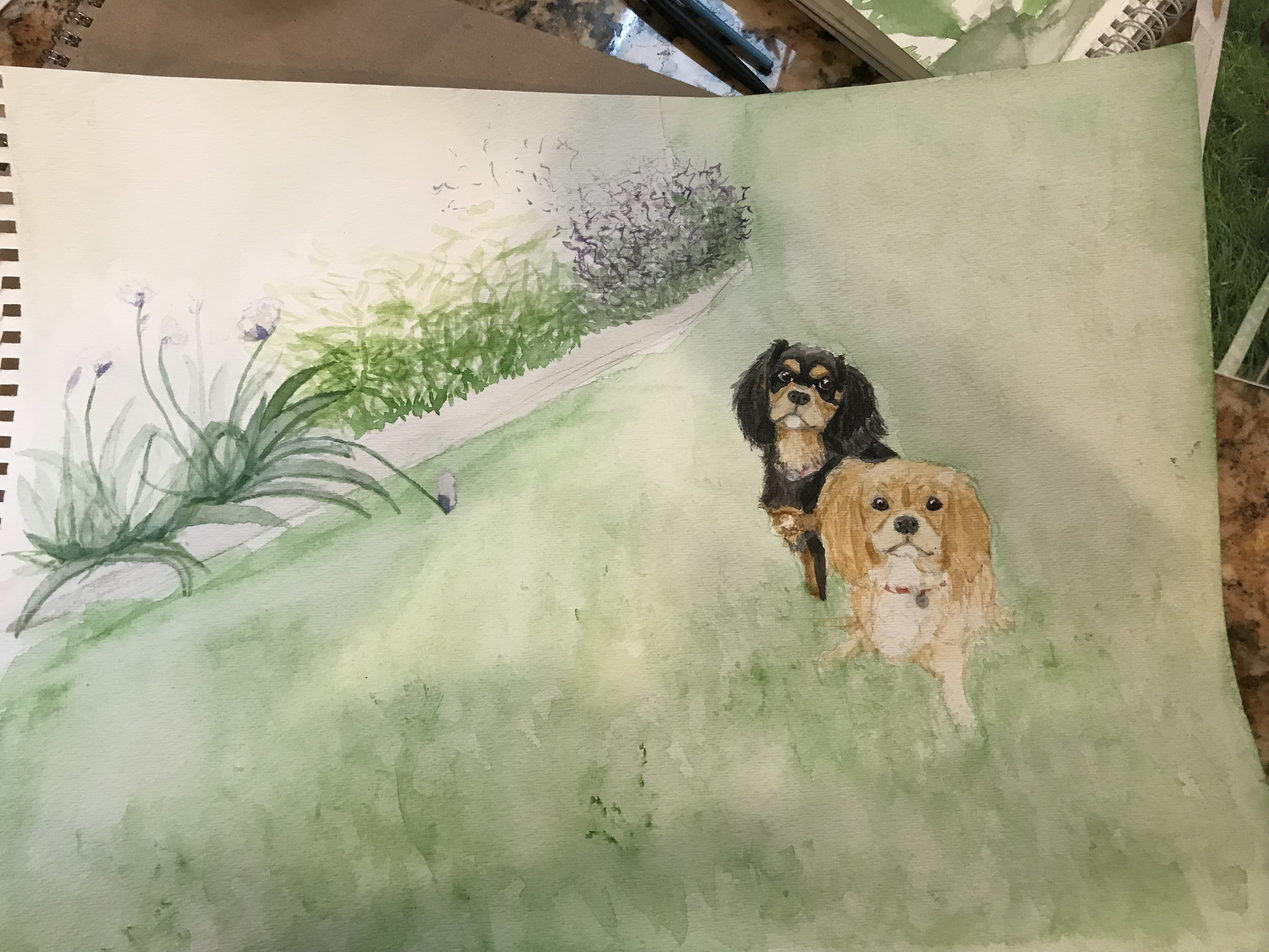
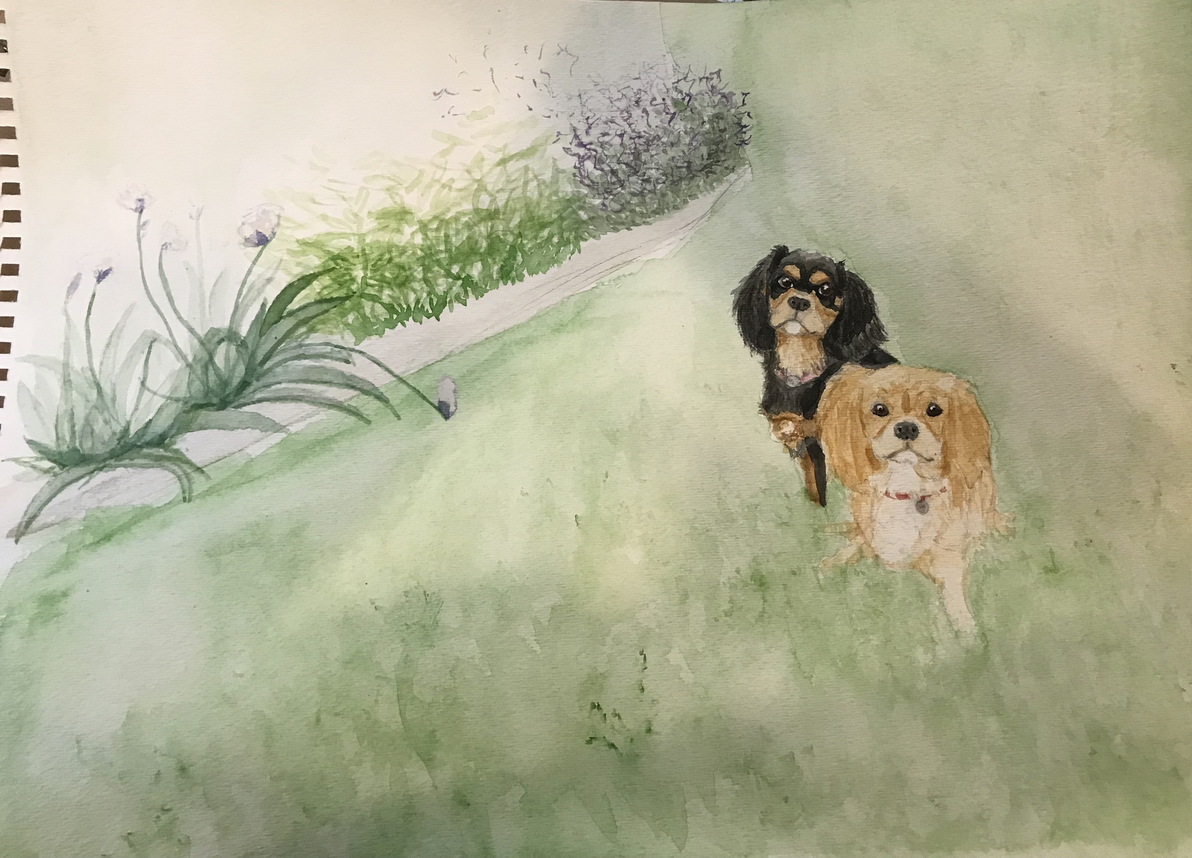
add in final pictures

diff --git a/about.html b/about.html
@@ -27,25 +27,26 @@
 </header>
 
 <h1 class="des-ital">Watercolor Portraits</h1>
-<div  class="slider slickgala" dir="ltr">
+<div  class="slickgala" dir="ltr">
 
-<div><img src="img/personal/art-cavs-photo.jpg" alt="First slide"></div>
+<div class="slide"><img src="img/personal/art-cavs-photo.jpg" alt="First slide"></div>
     <div class="slide"><img src="img/personal/art-cavs-painting.jpg" alt="Second slide"></div>
+<div class="slide"><img src="img/personal/art-cavs-finished.JPG" alt="final painting"></div>
+    <div class="slide"><img src="img/personal/art-olympia-photo.JPG" alt="Third slide"></div>
 
-    <div><img src="img/personal/art-olympia-photo.JPG" alt="Third slide"></div>
+    <div class="slide"><img src="img/personal/art-olympia-painting.JPG" alt="Fourth slide"></div>
 
-    <div><img src="img/personal/art-olympia-painting.JPG" alt="Fourth slide"></div>
+        <div class="slide"><img src="img/personal/art-olympia-finished.JPG" alt="final painting"></div>
+  </div>
     </div>
-    <div class="slider slickfinal" dir="ltr">
-      <div><img src="img/personal/art-cavs-finished.JPG" alt="First slide"></div>
-          <div><img src="img/personal/art-olympia-finished.JPG" alt="Second slide"></div>
-    </div>
+
+
 
 
 <footer>
   <nav>
     <ul class="nav align-items-center">
-      <li class="nav-item"><img src="img/hk-tag-header.png" alt="HK Logo"></li>
+      <li class="nav-item"><a href="index.html"><img src="img/hk-tag-header.png" alt="HK Logo"></a></li>
       <li class="nav-item"><a class="nav-link" href="#projects">projects</a></li>
       <li class="nav-item"><a class="nav-link" href="about.html">about</a></li>
       <li class="nav-item"><a class="nav-link" href="resume.html">resume</a></li>

diff --git a/index.js b/index.js
@@ -10,29 +10,30 @@ $('.slickautoplay').slick({
   autoplaySpeed: 5000,
 });
 
+$('.slickgala').slick({
+  infinite: true,
+  slidesToShow: 3,
+  slidesToScroll: 3
+  // variableWidth: true
+});
+
 // $('.slickgala').slick({
 //   infinite: true,
 //   slidesToShow: 2,
 //   slidesToScroll: 2,
+//   asNavFor: '.slickfinal',
+//   dots: true,
+//   centerMode: true,
+//   focusOnSelect: true
 // });
-
-$('.slickgala').slick({
-  infinite: true,
-  slidesToShow: 2,
-  slidesToScroll: 2,
-  asNavFor: '.slickfinal',
-  dots: true,
-  centerMode: true,
-  focusOnSelect: true
-});
-
-$('.slickfinal').slick({
- slidesToShow: 1,
- slidesToScroll: 1,
- arrows: false,
- fade: true,
- asNavFor: '.slickgala'
-});
+//
+// $('.slickfinal').slick({
+//  slidesToShow: 1,
+//  slidesToScroll: 1,
+//  arrows: false,
+//  fade: true,
+//  asNavFor: '.slickgala'
+// });
 
 
 $( function() {

diff --git a/index.html b/index.html
@@ -150,7 +150,7 @@
 <footer>
   <nav>
     <ul class="nav align-items-center">
-      <li class="nav-item"><img src="img/hk-tag-header.png" alt="HK Logo"></li>
+      <li class="nav-item"><a href="index.html"><img src="img/hk-tag-header.png" alt="HK Logo"></a></li>
       <li class="nav-item"><a class="nav-link" href="#projects">projects</a></li>
       <li class="nav-item"><a class="nav-link" href="about.html">about</a></li>
       <li class="nav-item"><a class="nav-link" href="resume.html">resume</a></li>
